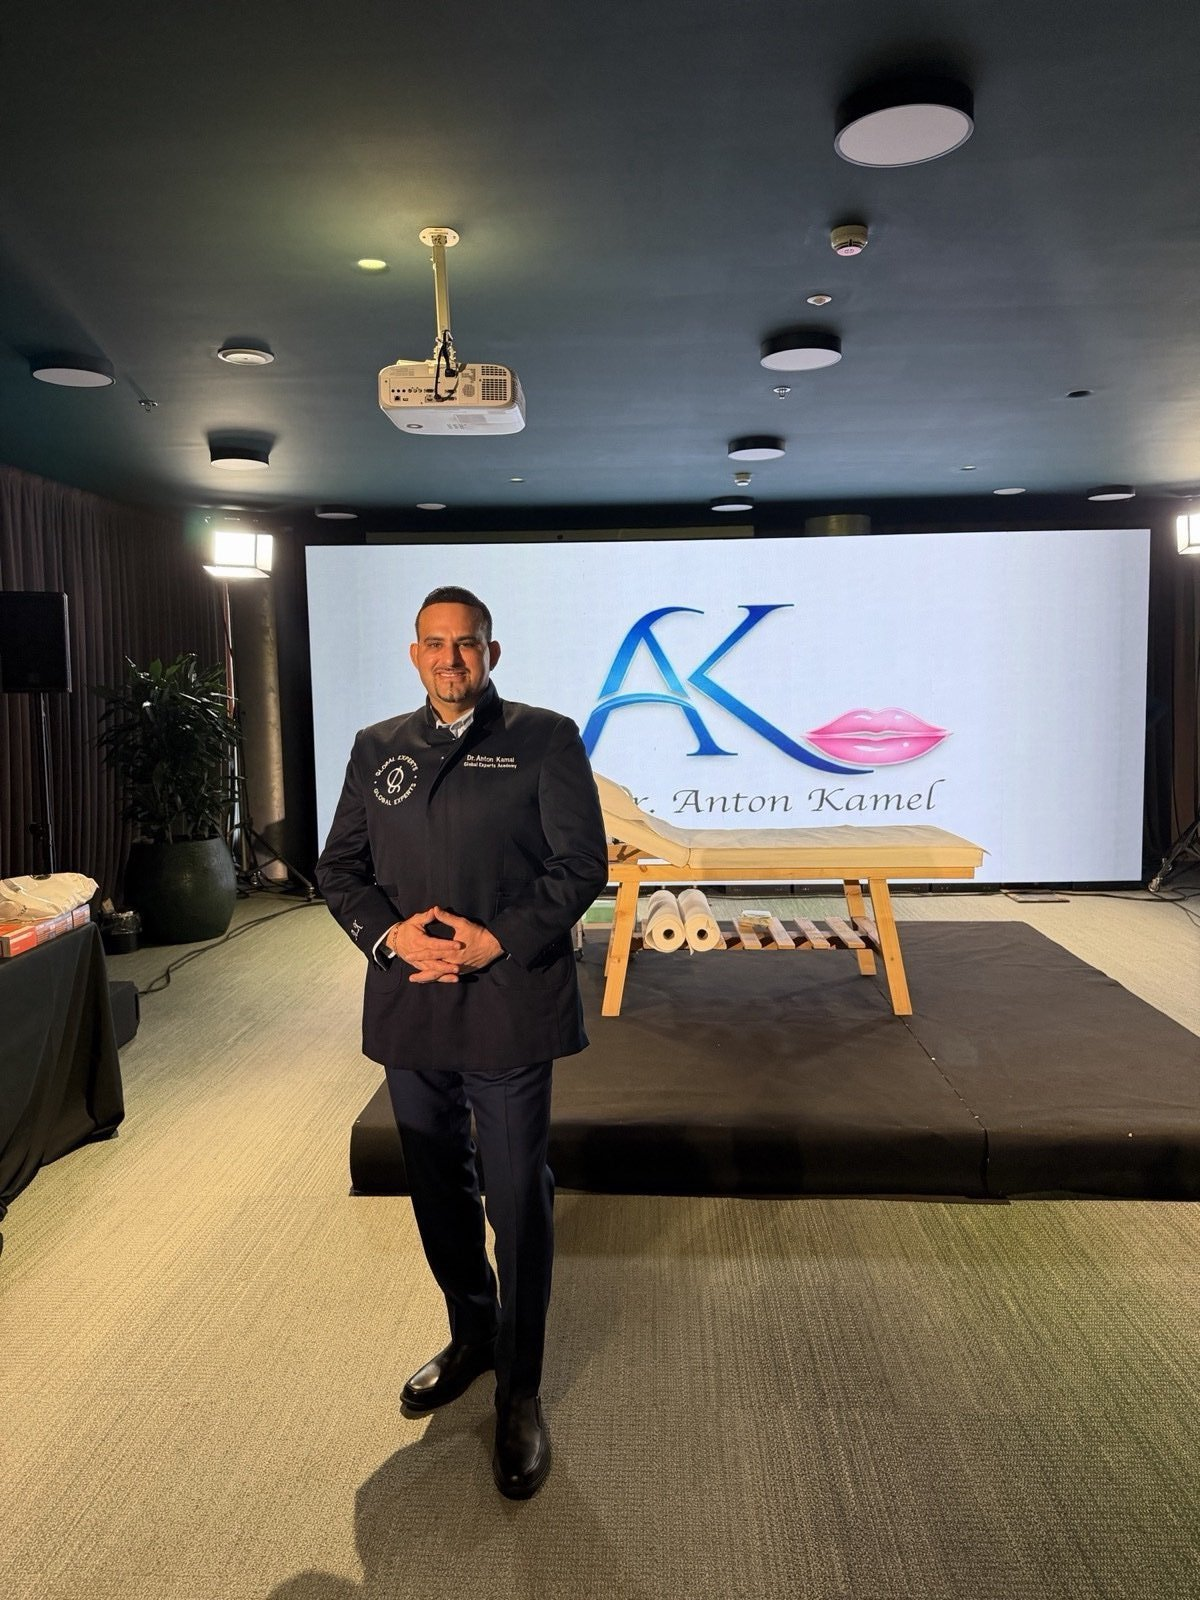
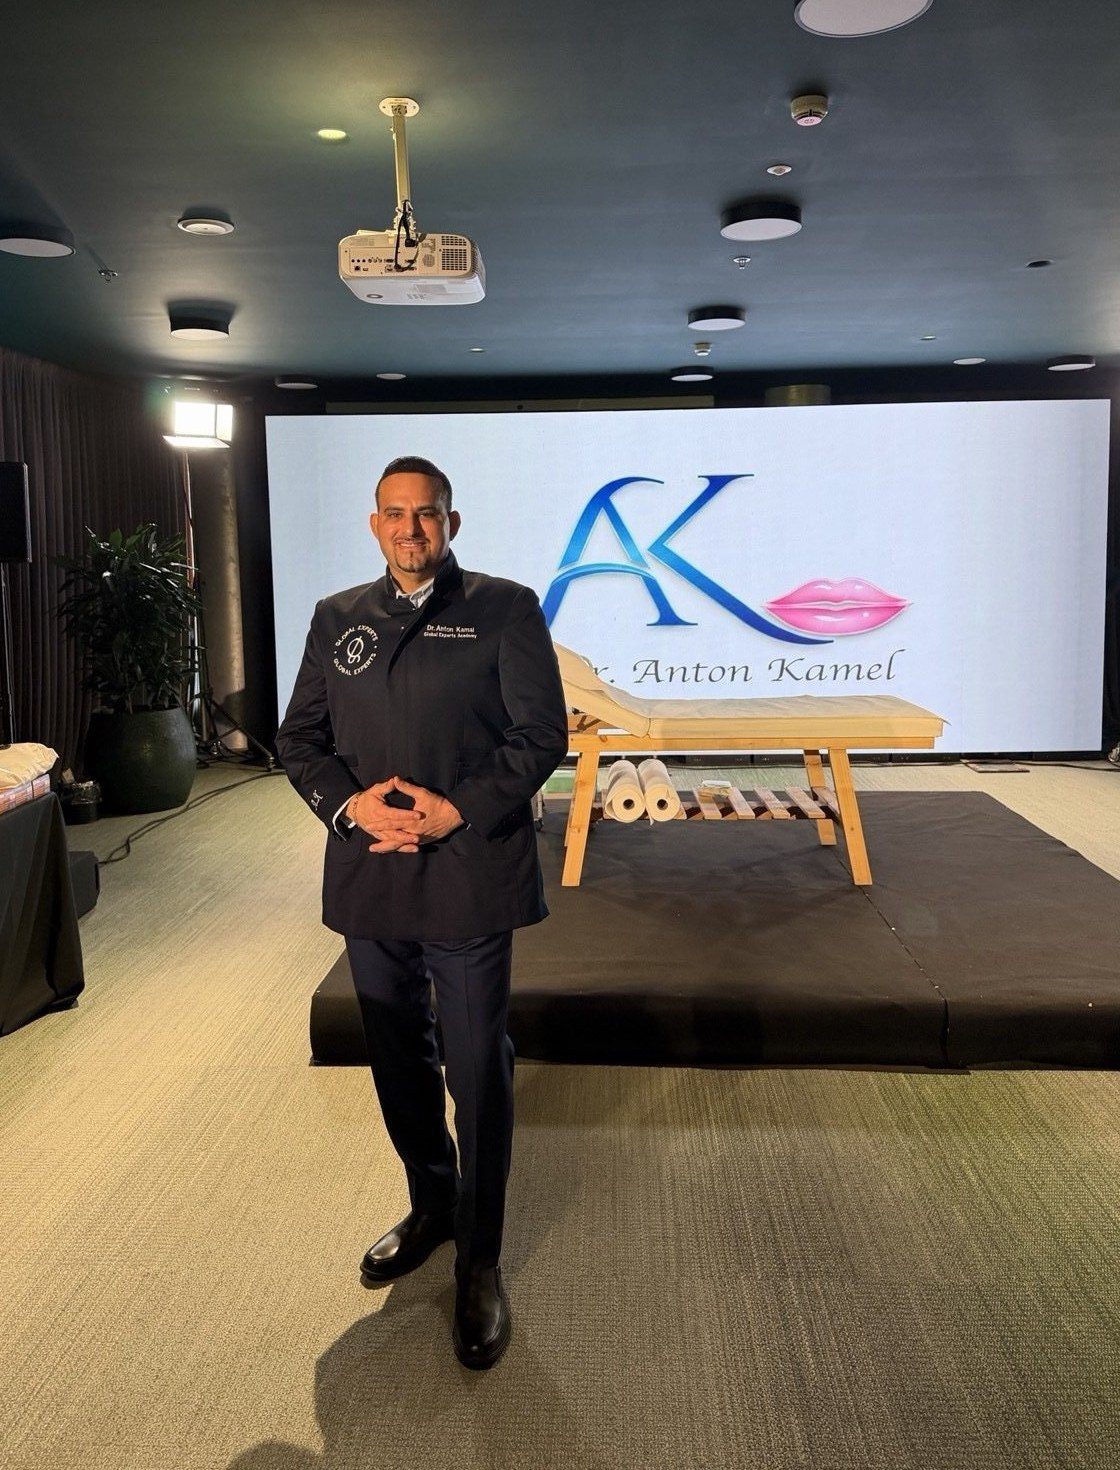
fix(hero): crop foto stretto su Anton + object-position center
Foto ritagliata 1120x1470 (era 1200x1600 con troppo soffitto).
Anton centrato sx, AK logo visibile dx, piedi visibili, pavimento ridotto.
object-position center mobile + center 30% desktop per non tagliare testa.

diff --git a/components/WavesHero.tsx b/components/WavesHero.tsx
@@ -158,7 +158,7 @@ export default function WavesHero() {
           fill
           priority
           sizes="100vw"
-          className="object-cover object-[28%_75%] md:object-[20%_bottom]"
+          className="object-cover object-[center_center] md:object-[center_30%]"
           style={{ filter: 'brightness(0.5) contrast(1.05) saturate(1.05)' }}
         />
       </div>
